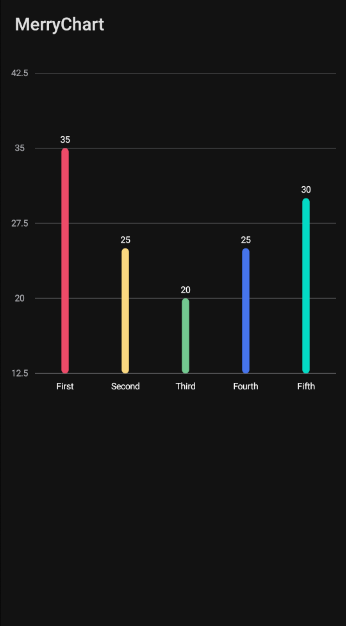
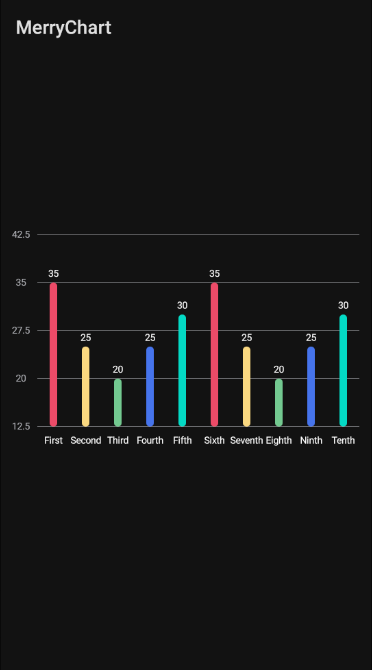
(WIP) updated screenshot

diff --git a/app/src/main/java/com/mary/merrychart/MainActivity.kt b/app/src/main/java/com/mary/merrychart/MainActivity.kt
@@ -36,30 +36,30 @@ class MainActivity : AppCompatActivity() {
                     BarChartEntry(
                         position = 5,
                         value = 35.0,
-                        xLabel = "First",
+                        xLabel = "Sixth",
                         color = this@MainActivity.color(R.color.red)
                     ),
                     BarChartEntry(
                         position = 6,
                         value = 25.0,
-                        xLabel = "Second",
+                        xLabel = "Seventh",
                         color = this@MainActivity.color(R.color.yellow)
                     ),
                     BarChartEntry(
                         position = 7,
                         value = 20.0,
-                        xLabel = "Third",
+                        xLabel = "Eighth",
                         color = this@MainActivity.color(R.color.green)
                     ),
                     BarChartEntry(
                         position = 8,
                         value = 25.0,
-                        xLabel = "Fourth"
+                        xLabel = "Ninth"
                     ),
                     BarChartEntry(
                         position = 9,
                         value = 30.0,
-                        xLabel = "Fifth",
+                        xLabel = "Tenth",
                         color = this@MainActivity.color(R.color.colorAccent)
                     ),
                     BarChartEntry(
